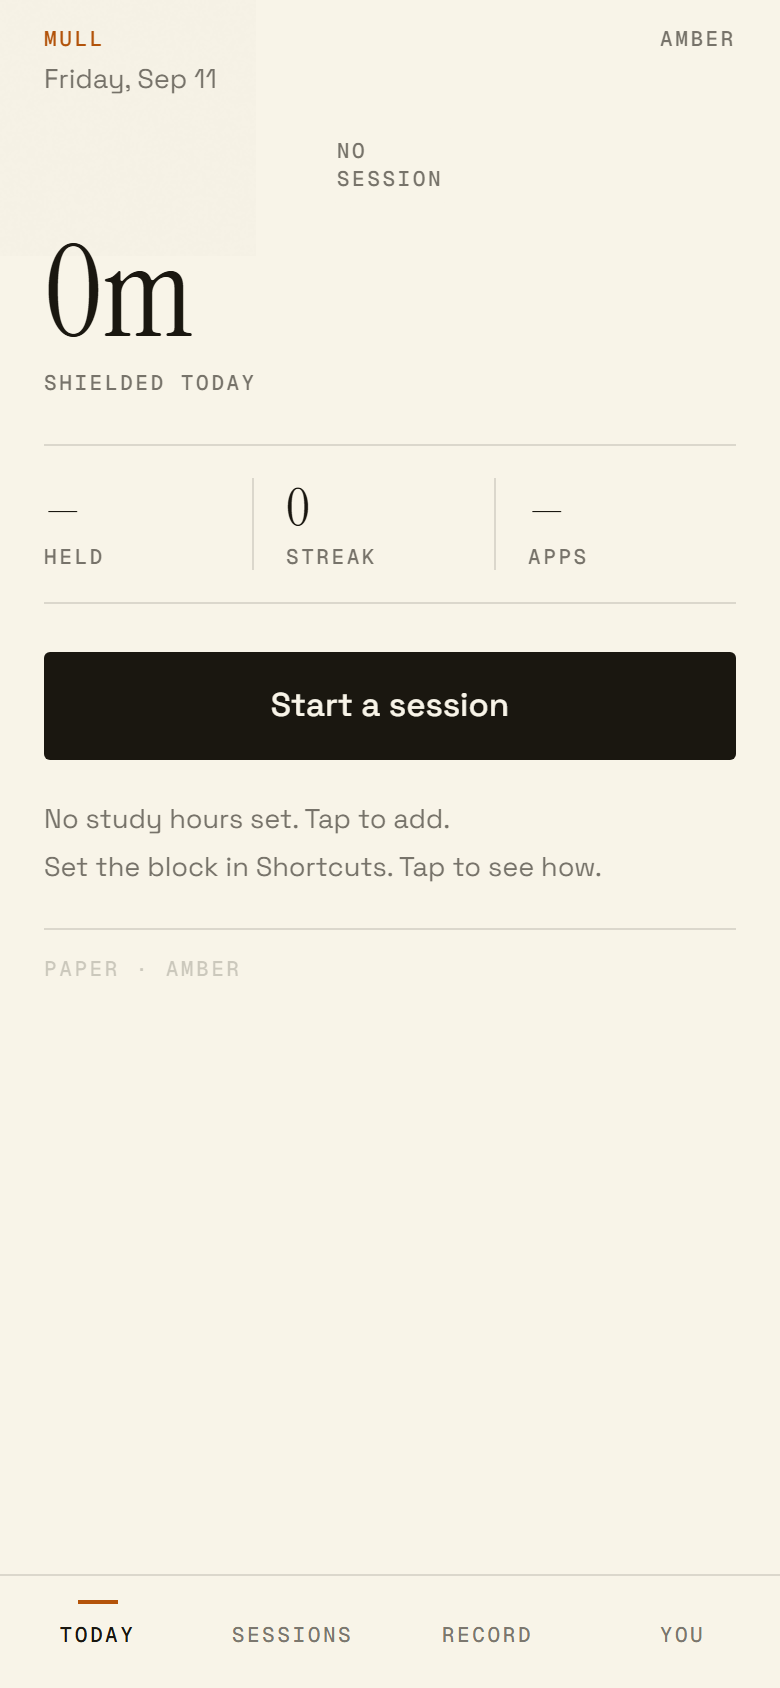
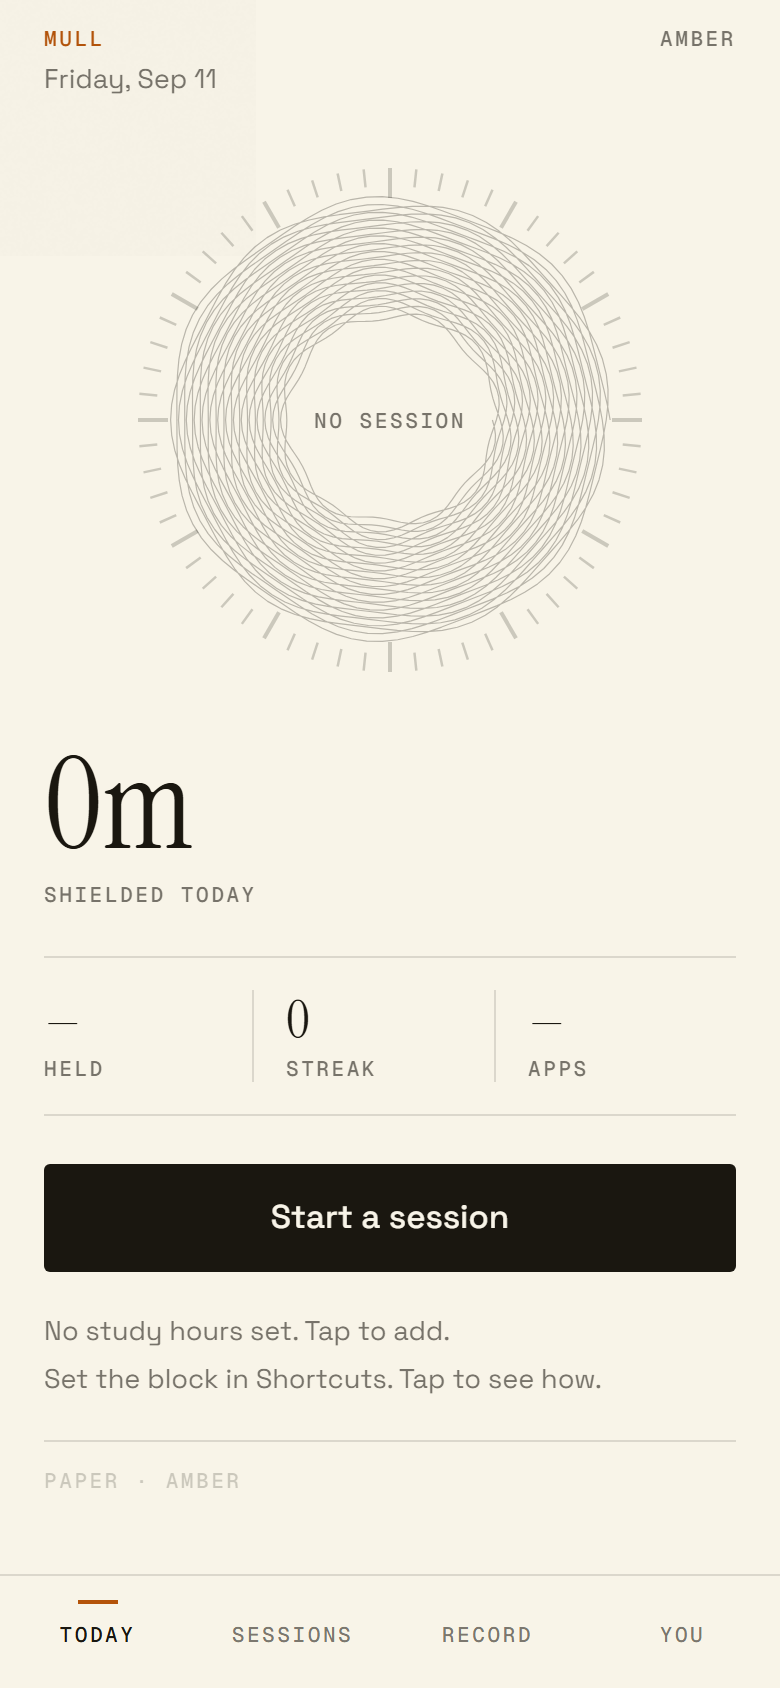
docs: record the live deploy and what the harness was hiding

diff --git a/BUILD_STATE.md b/BUILD_STATE.md
@@ -1,9 +1,23 @@
 # Loop state · mull-build
 
 ## Last run
+2026-09-11 (session 4). LIVE as a PWA: https://mull-dxnn-s-projects.vercel.app · repo https://github.com/Dxnn-s/mull · auto-deploys on push to master.
+
+## Earlier
 2026-09-08 (session 2). Wave 3 shipped from `Brain/projects/mull/ideas-2026-09-08.md` (the ranked plan: 10 findings, 35 ideas, integrations table, build order). Session 1 (2026-09-06) reached v2.
 
 ## In progress
+- Session B (Screen Time module) still gated on the Apple Developer enrolment. Everything else that does not need Apple is done.
+
+## Done in session 4 (2026-09-10/11)
+- Paper-and-ink redesign, light by default. Orb replaced by a tick-mark dial. One accent, no glow, no cyan, print radii, editorial layout, label-only tabs.
+- Guilloché seal as the signature visual: `src/guilloche.ts` draws one engraved spiral whose figure comes from the record (lobes from concepts, depth from streak). Fills the dial, stamps the Record page, and is the icon set in a bolder small-size cut.
+- PWA: manifest, service worker, apple-touch-icon, Add to Home Screen hint, and the Shortcuts recipe on the web build's blocked-apps screen.
+- Shipped: pushed to GitHub (first backup this project has ever had), linked Vercel on the dxnn-s team with rootDirectory apps/mobile, disabled SSO protection so the URL is public.
+- Fixed three deploy-only failures: Vercel ran no build at all (needed an explicit vercel.json for a pnpm workspace); routes 404'd (cleanUrls); and the dial rendered 0x0 on a cold load.
+- Bundle: dropped 30 unused font faces (35 ttf -> 5) and shrank the grain plate. Web export 4.8MB -> 2.9MB.
+
+## Old in progress
 - PIVOT 2026-09-08 evening: Dennis wants the app, not the extension ("hard to market and monetize"; "heavy inspo from Opal"). Product = iPhone app that shields the AI apps the user picks (Screen Time API) with a subject quiz as the unlock. Plan: `Brain/projects/mull/app-plan.md`. Design spec DONE: `Brain/projects/mull/design/mobile-spec.md` (483 lines: tokens, orb states, seven screens, nav, shield text, a11y, do-nots).
 - Session A (in progress, after a crash mid-install): `apps/mobile` Expo SDK 57 + expo-router, `.npmrc node-linker=hoisted` for the workspace, metro watches the root. Written: theme provider with all four token sets and Dynamic Type caps, AsyncStorage store (core shapes + session/unlock/saved), quiz wrapper (per-subject concept bank, pickConcept with memory, makeCard via core, gradeCard with review + reshuffle), Orb (halo/core/ring layers, six states, breathe/pulse, reduced motion), UI kit, and routes: (tabs) home/sessions/stats/you, unlock modal (loading/explain/quiz/missed/blocked), subjects, blocked-apps placeholder, paywall layout. Session A DONE (commit 'mobile: Expo app scaffold'): tsc clean, 5 vitest on the quiz wrapper, `expo export --platform ios` bundles 3.3 MB hbc. Not yet run on a phone (no Expo Go run yet; needs Dennis's iPhone + `pnpm --filter @mull/mobile start`). Next: Session B = Screen Time module (kingstinct/react-native-device-activity, custom dev client via EAS, entitlement request the same day), Session C = quiz server + RevenueCat paywall.
 - Wave 3 tail landed: answer-leak guard, pre-classifier, upgrade test; plus schedule/recap/consent/health in core (79 vitest). Extension UI for those (dead-key, health probe, first-run, study hours, recap) is PAUSED pending Dennis's call on whether the extension stays as a companion.
@@ -33,6 +47,10 @@
 Sign in with Claude, Codex/ChatGPT OAuth, Google sign-in, a Mull-hosted tier (held), fetch-level blocking, Safari, native iOS, district channel, Socratic chat drift, confidence sliders, MutationObserver on body, auto-importing subjects, extra permissions.
 
 ## Lessons learned (write here, not in chat)
+- The screenshot harness seeded localStorage then navigated a SECOND time, so every shot was a warm load. That hid a dial that collapsed to 0x0 on a genuine first paint, and it only surfaced on the live site. `useWindowDimensions` returns 0 during static render; measure with onLayout instead. The harness now shoots a cold load first and fails if any svg comes back 0 wide.
+- Vercel auto-detects nothing useful for an Expo app in a pnpm workspace: the first deploy ran no build at all (25ms, no install) and served only `public/`, so every route 404'd but the manifest still resolved, which made it look half-working. With rootDirectory set to a subfolder it never looks at the workspace root, so the install command has to point there by hand.
+- New Vercel projects default to SSO protection on all deployment URLs, which returns the login page with HTTP 200. Checking status codes alone says the site is fine; check the body.
+- Importing from a font package's root pulls every weight and italic it ships. Use the per-weight subpath.
 - A fixture written from the selector file proves the selectors match the fixture, not the site. Save real composer subtrees as fixtures.
 - Test assertions like "no prompt text in the row" must not grep for words that legitimately appear in the concept name. Assert the key set instead.
 - Haiku 4.5 rejects `output_config.effort` and adaptive thinking. Any model default change on Anthropic needs the params branch or it 400s.
